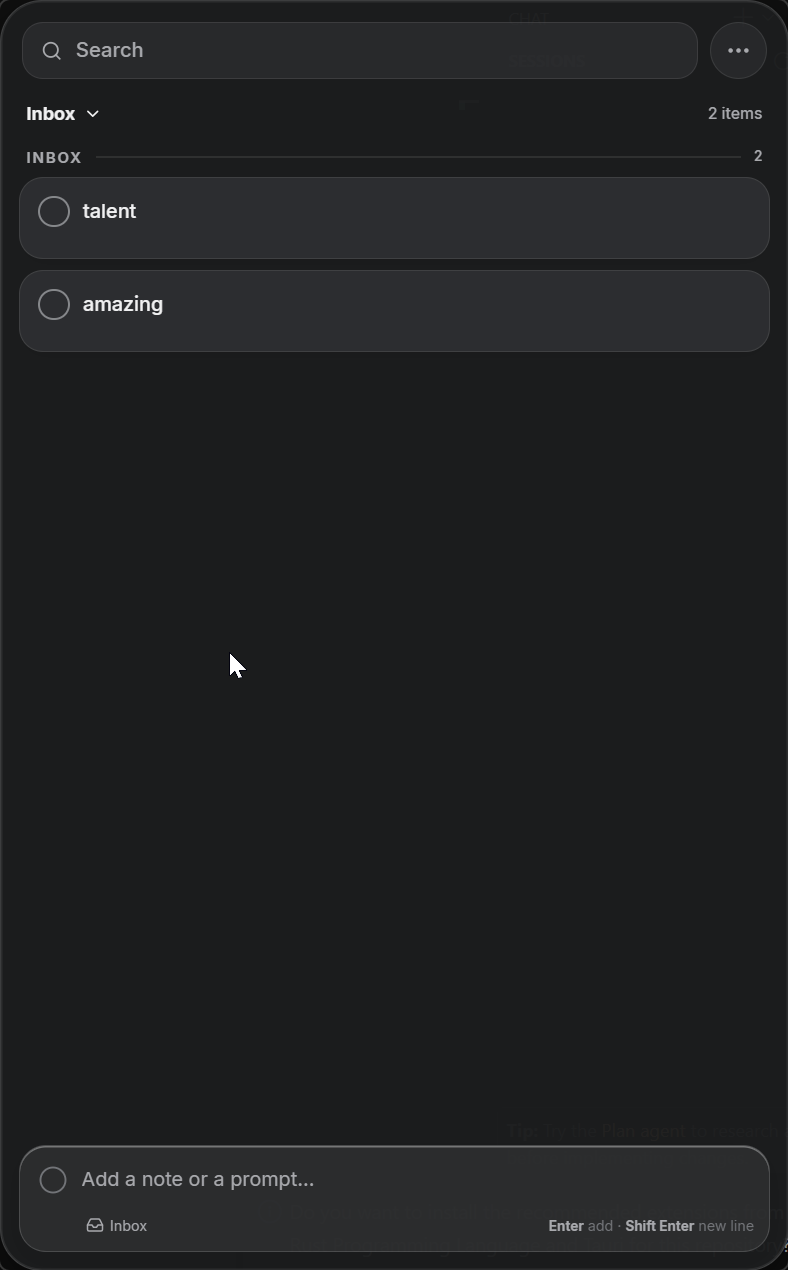
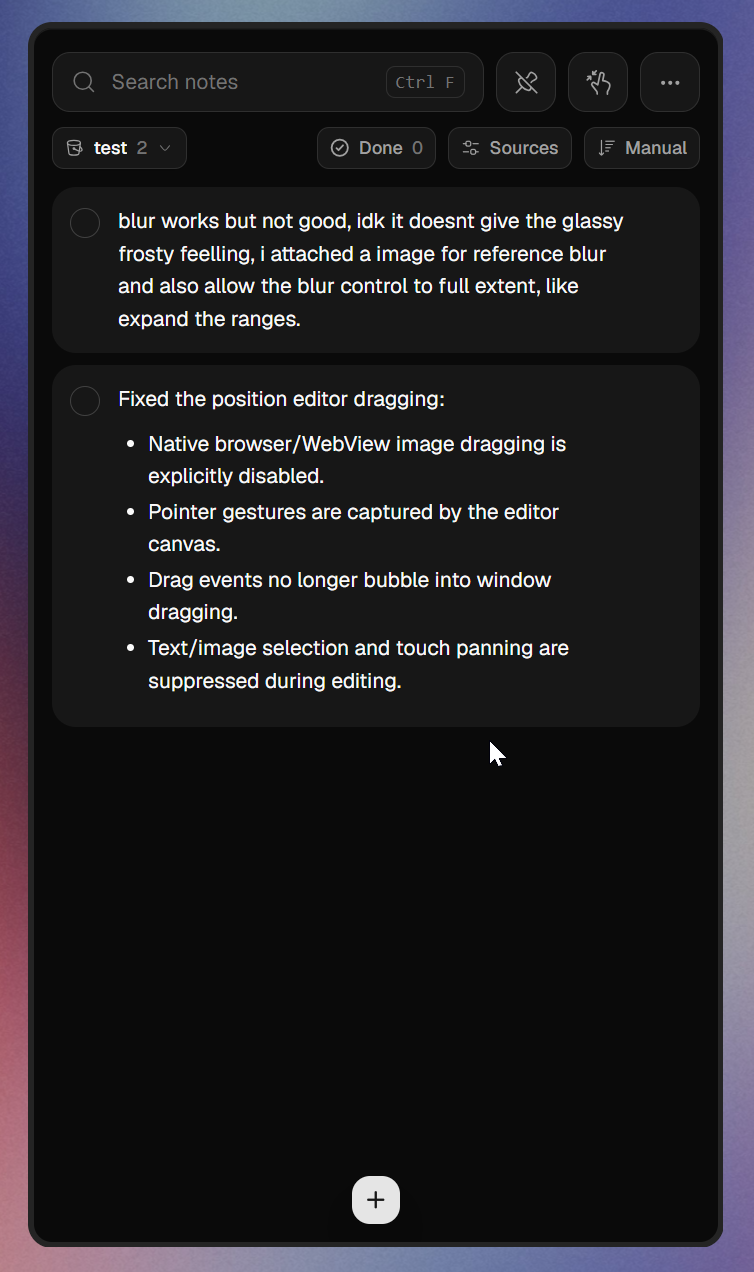
readme update

diff --git a/README.md b/README.md
@@ -7,7 +7,9 @@ prompts, and keeping follow-up work nearby. Everything is stored locally.
 
 Built with Tauri 2, React, TypeScript, Tailwind CSS, Zustand, dnd-kit, and `fzf`.
 
-![alt text](image.png)
+<img src="image.png" alt="alt text" height="500" />
+<img src="image2.png" alt="alt text" height="500" />
+<img src="image3.png" alt="alt text" height="500" />
 
 ## Features
 
